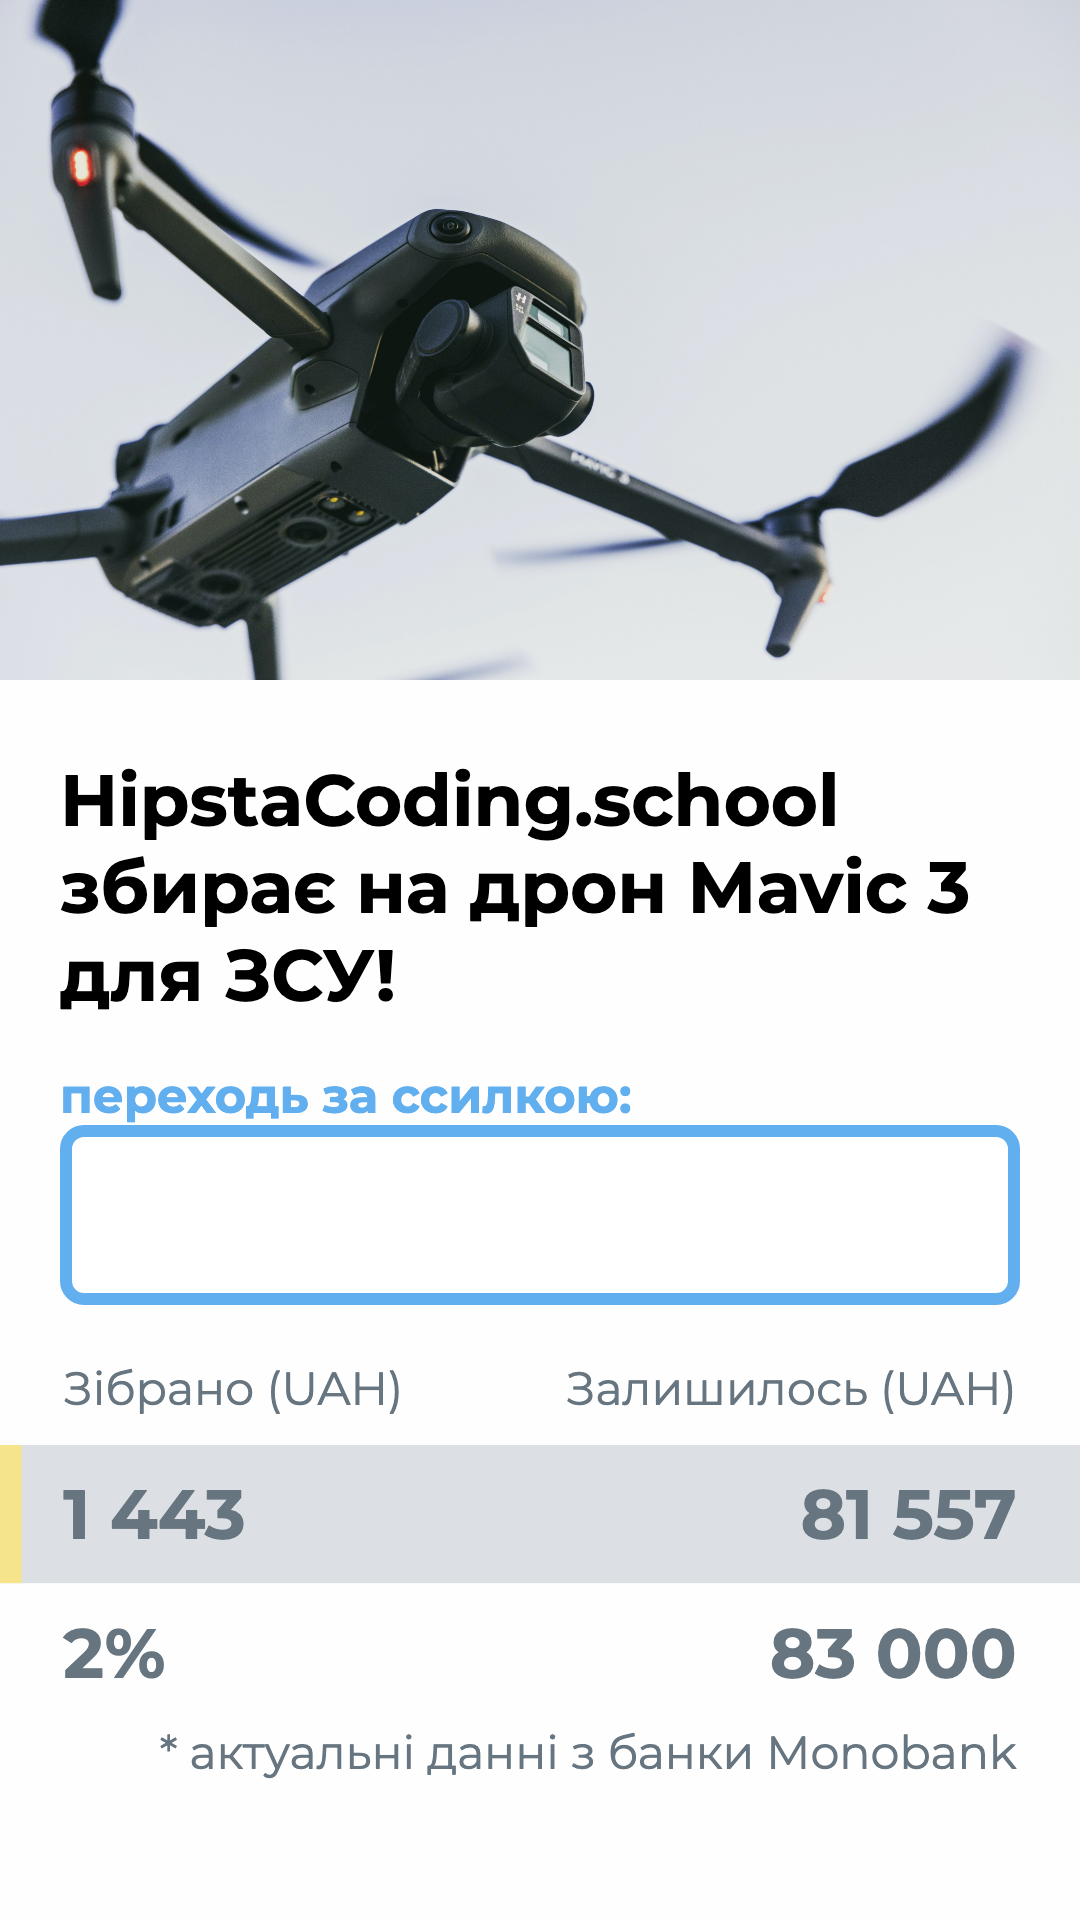
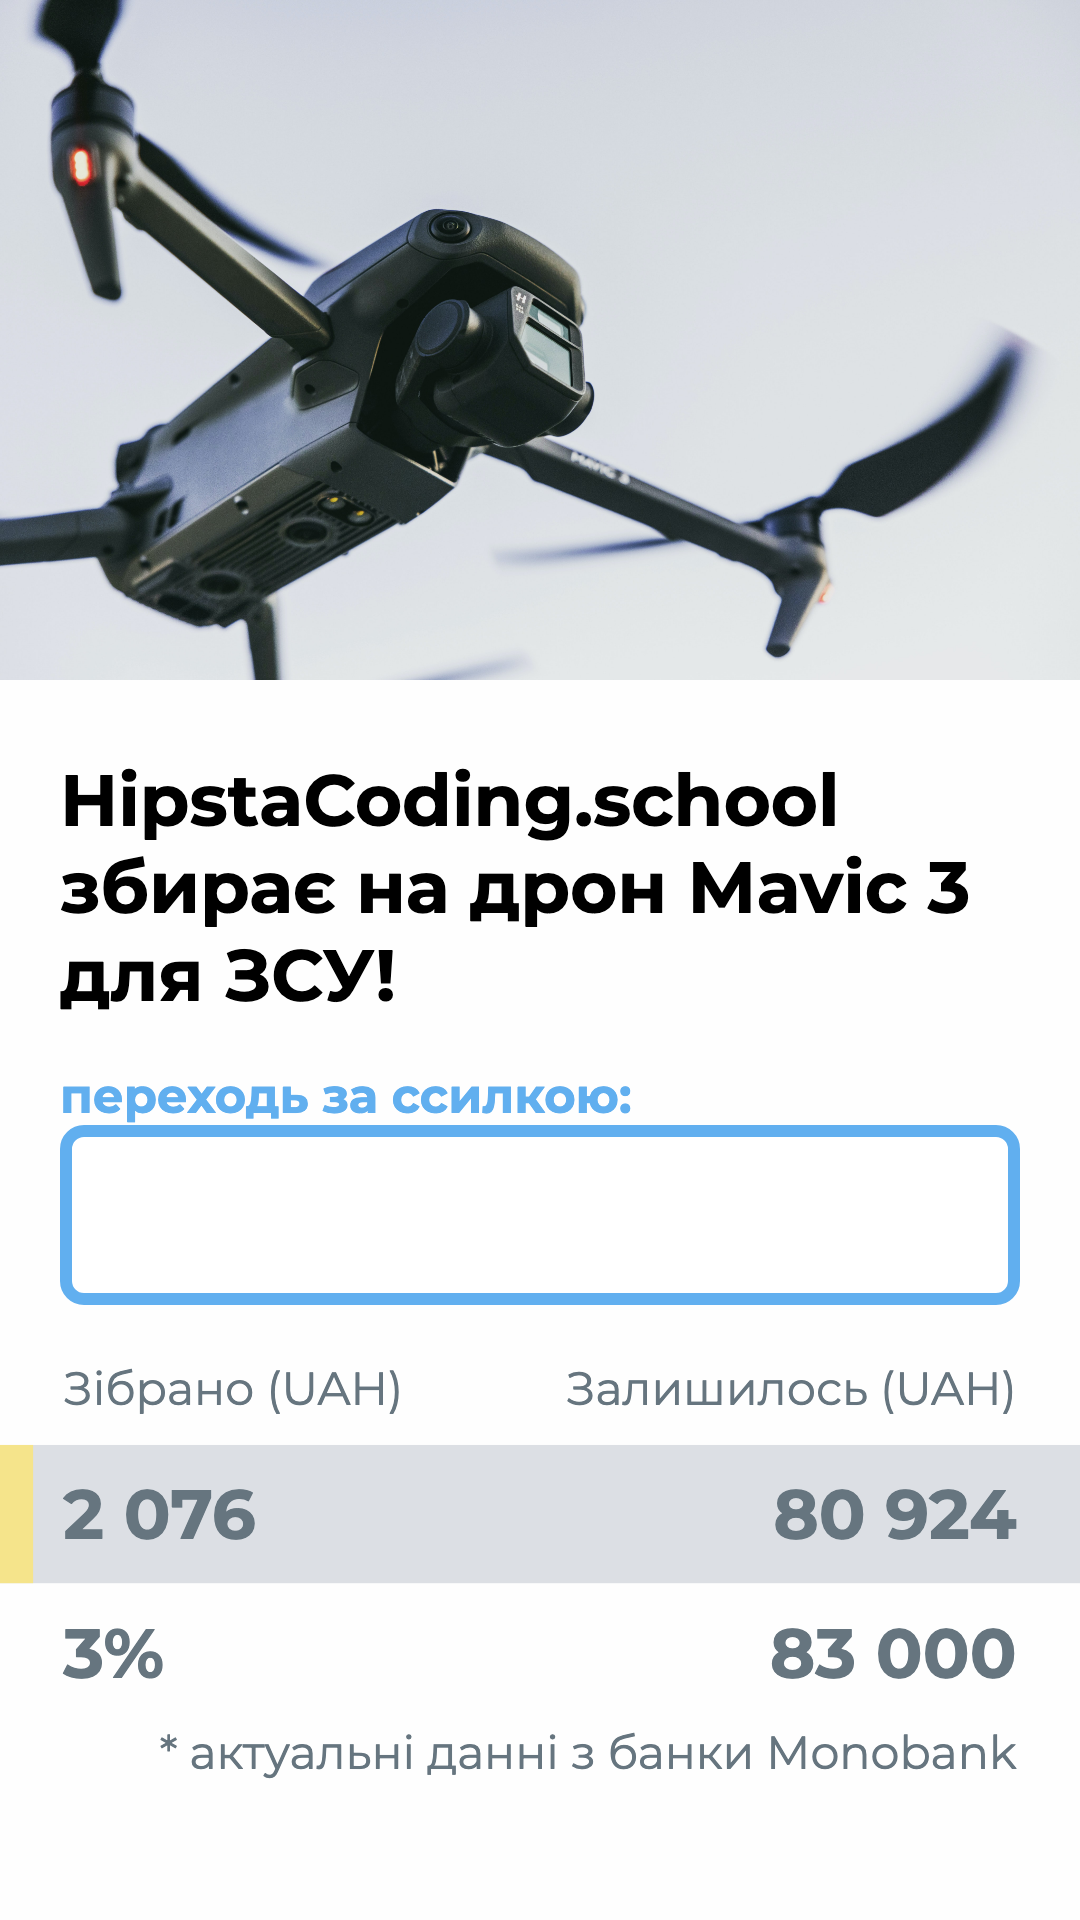
fix update numbers

diff --git a/public/js/donation-tracker/functions.js b/public/js/donation-tracker/functions.js
@@ -34,11 +34,15 @@ function getDonationData() {
   });
 }
 
+window.balance = 0;
+window.percent = 0;
+
 function render(data) {
   const format = Intl.NumberFormat("uk-UK").format; 
 
   const balance = data.balance / 100;
-  const goalFormatted = format(data.goal / 100);
+  const goal = data.goal / 100;
+  const goalFormatted = format(goal);
   const remains = (data.goal - data.balance) / 100;
   const remainsFormatted = format(remains);
   const percent = Math.ceil(data.balance / data.goal * 100);
@@ -51,11 +55,14 @@ function render(data) {
   animateNumber(balance, (n) => {
     const balanceFormatted = format(n);
     document.getElementById('dt-collected').textContent = balanceFormatted;
-  })
+  }, window.balance);
 
   animateNumber(percent, (n) => {
     const formattedPercent = n + '%';
     document.getElementById('dt-collected-percent').textContent = formattedPercent;
-  })
+  }, window.percent);
+
+  window.balance = balance;
+  window.percent = percent;
 }
 

diff --git a/public/js/donation-tracker/index.js b/public/js/donation-tracker/index.js
@@ -1,18 +1,11 @@
 const socket = io();
 
-let balance = 0;
-
 socket.on("donate", (newBalance) => {
-  console.log("DONATE", newBalance)
-  animateNumber(newBalance / 100, (n) => {
-    const format = Intl.NumberFormat("uk-UK").format; 
-    const balanceFormatted = format(n);
-    document.getElementById('dt-collected').textContent = balanceFormatted;
-  }, window.balance / 100)
-  window.balance = newBalance;
+  if (!window.res) return;
+  render({ ...window.res, balance: newBalance });
 });
 
 getDonationData().then(res => {
-  window.balance = res.balance;
+  window.res = res;
   render(res);
 })
